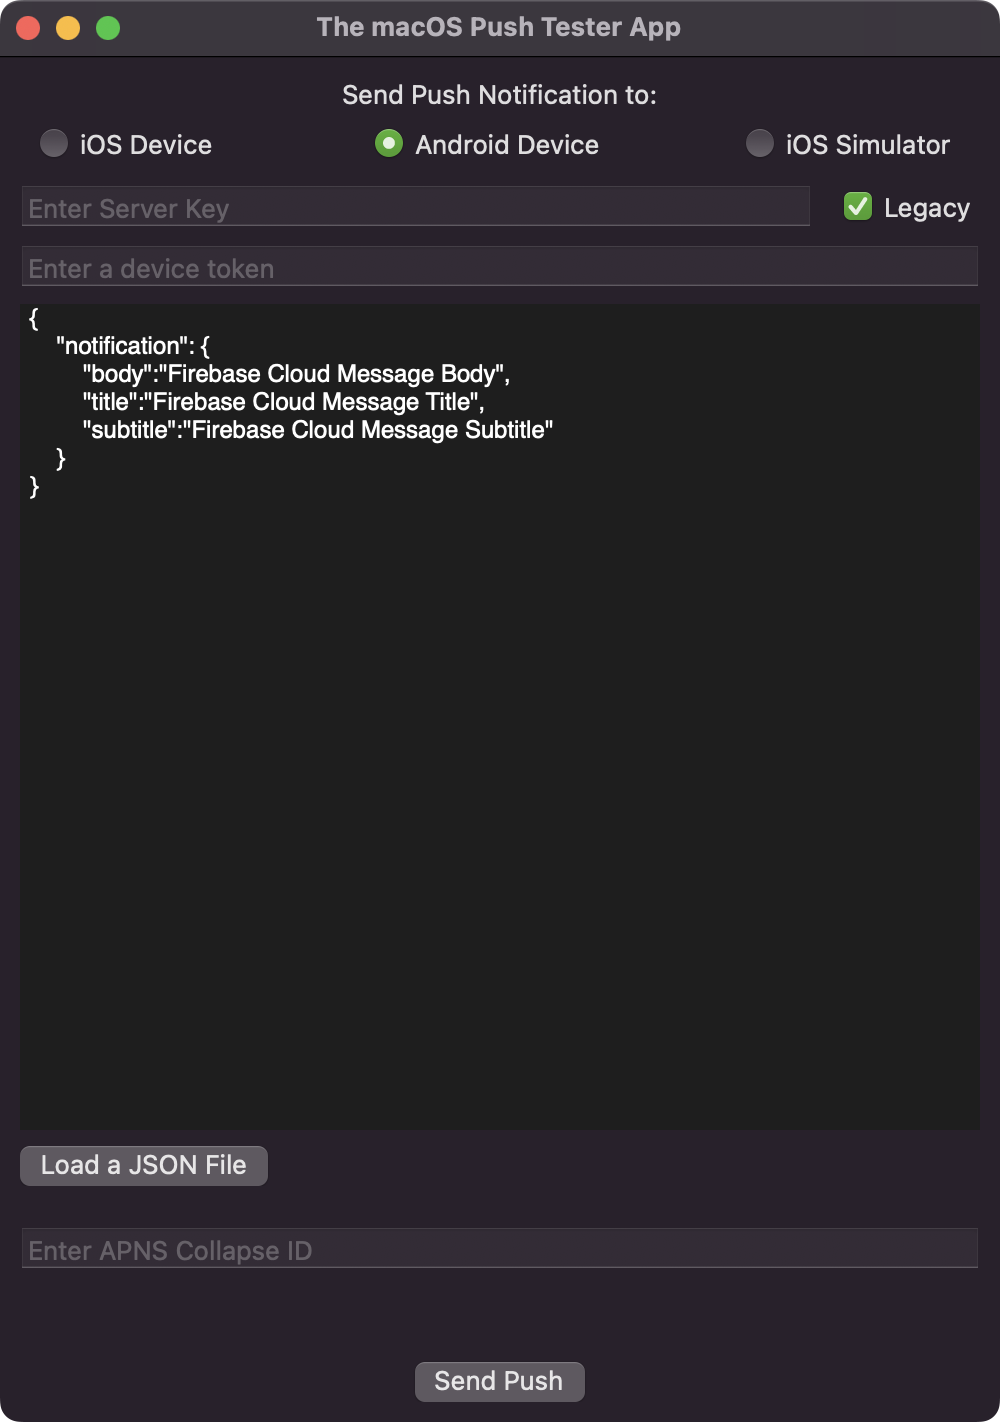
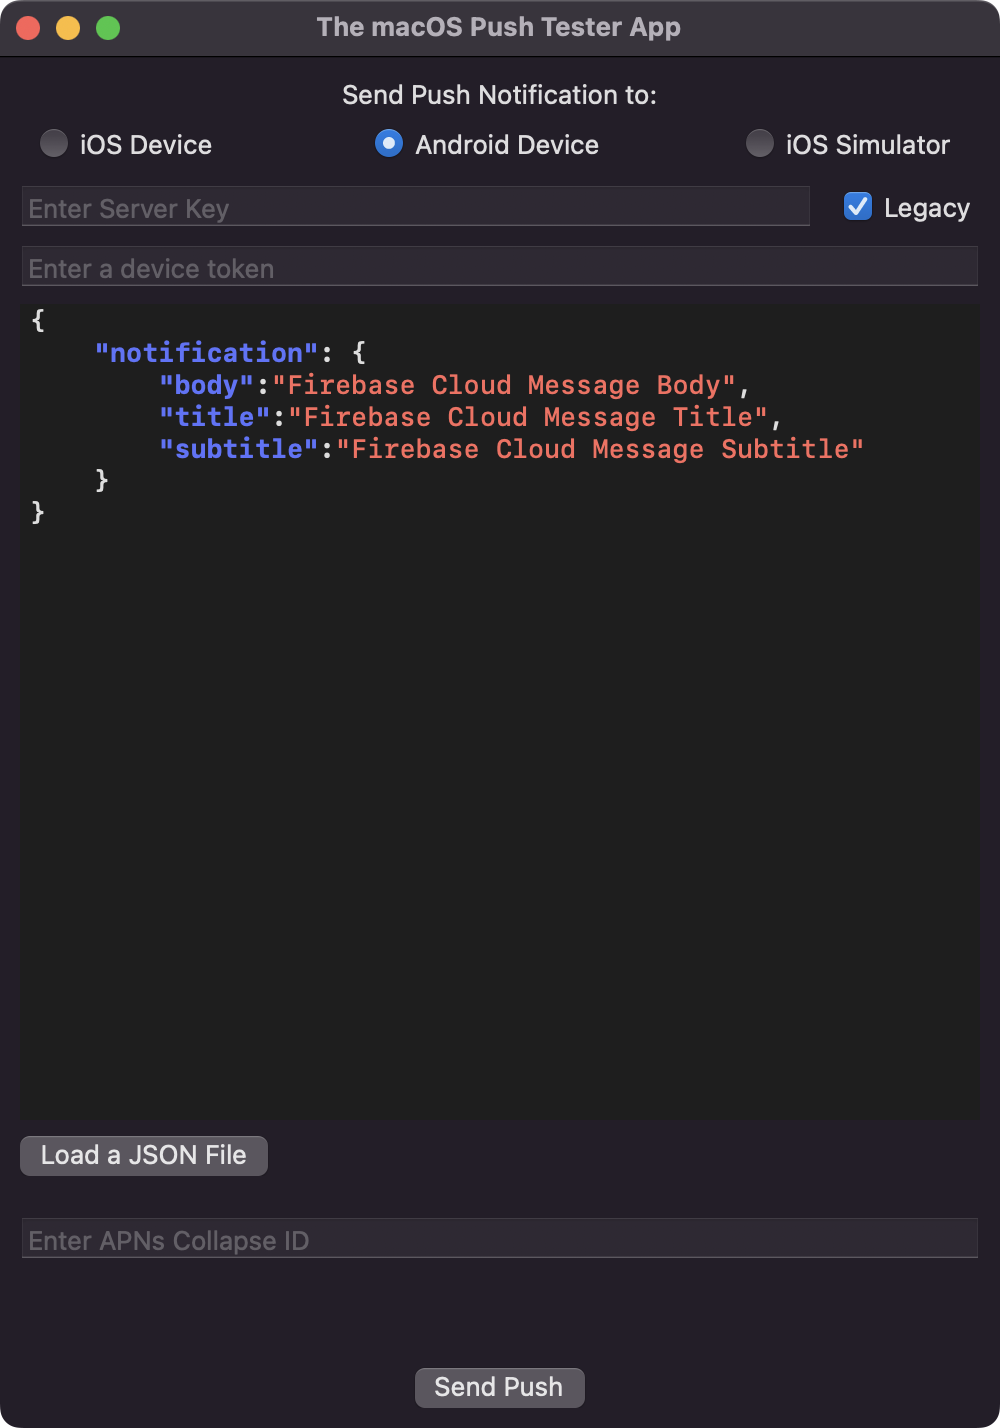
feat: Handle properly apns-push-type by adding a push type textfield (SDKCF-6629)

diff --git a/PusherMainView/PusherMainViewTests/PusherStoreSpec.swift b/PusherMainView/PusherMainViewTests/PusherStoreSpec.swift
@@ -153,7 +153,7 @@ final class PusherStoreSpec: QuickSpec {
                                                                                 priority: 0,
                                                                                 collapseID: nil,
                                                                                 sandbox: true,
-                                                                                liveActivity: false)),
+                                                                                pushType: "alert")),
                                                               completion: { _ in
                                                               }))
 
@@ -175,7 +175,7 @@ final class PusherStoreSpec: QuickSpec {
                                                                                 priority: 0,
                                                                                 collapseID: nil,
                                                                                 sandbox: true,
-                                                                                liveActivity: false)),
+                                                                                pushType: "alert")),
                                                               completion: { _ in
                                                               }))
 
@@ -250,7 +250,7 @@ final class PusherStoreSpec: QuickSpec {
                                                                                 priority: 0,
                                                                                 collapseID: nil,
                                                                                 sandbox: true,
-                                                                                liveActivity: false)),
+                                                                                pushType: "alert")),
                                                               completion: { success in
                                                                   failure = !success
                                                               }))
@@ -270,7 +270,7 @@ final class PusherStoreSpec: QuickSpec {
                                                                                 priority: 0,
                                                                                 collapseID: nil,
                                                                                 sandbox: true,
-                                                                                liveActivity: false)),
+                                                                                pushType: "alert")),
                                                              completion: { aSuccess in
                                                                  success = aSuccess
                                                              }))

diff --git a/PusherMainView/PusherMainView/PusherViewController.swift b/PusherMainView/PusherMainView/PusherViewController.swift
@@ -9,7 +9,7 @@ public final class PusherViewController: NSViewController {
     @IBOutlet private var appOrProjectIDTextField: NSTextField!
     @IBOutlet private var priorityTextField: NSTextField!
     @IBOutlet private var sandBoxCheckBox: NSButton!
-    @IBOutlet private var liveActivityCheckBox: NSButton!
+    @IBOutlet private var pushTypeTextField: NSTextField!
     @IBOutlet private var apnsCertificateRadioButton: NSButton!
     @IBOutlet private var apnsAuthTokenRadioButton: NSButton!
     @IBOutlet private var loadJSONFileButton: NSButton!
@@ -60,6 +60,7 @@ public final class PusherViewController: NSViewController {
         collapseIdTextField.placeholderString = "enter.apns.collapse.id".localized
         appOrProjectIDTextField.placeholderString = "enter.your.app.bundle.id".localized
         priorityTextField.placeholderString = "enter.apns.priority".localized
+        pushTypeTextField.placeholderString = "enter.apns.push.type".localized
         serverKeyTextField.placeholderString = "enter.fcm.server.key".localized
 
         priorityTextField.stringValue = "10"
@@ -163,7 +164,7 @@ public final class PusherViewController: NSViewController {
                 priority: priorityTextField?.integerValue ?? 10,
                 collapseID: collapseIdTextField.stringValue,
                 sandbox: sandBoxCheckBox.state.rawValue == 1,
-                liveActivity: liveActivityCheckBox.state.rawValue == 1))) { _ in })
+                pushType: pushTypeTextField.stringValue))) { _ in })
         }
     }
 
@@ -245,12 +246,12 @@ extension PusherViewController: NSTextViewDelegate {
     @IBOutlet private weak var priorityTextField: NSTextField!
     @IBOutlet private weak var collapseIdTextField: NSTextField!
     @IBOutlet private weak var sandBoxCheckBox: NSButton!
-    @IBOutlet private weak var liveActivityCheckBox: NSButton!
+    @IBOutlet private weak var pushTypeTextField: NSTextField!
     @IBOutlet private weak var serverKeyTextFieldContainter: NSView!
 
     private var iOSControls: [NSView] {
         [deviceTokenTextField, orLabel, selectDeviceButtonContainer, apnsButtonsContainer,
-         priorityTextField, collapseIdTextField, sandBoxCheckBox, liveActivityCheckBox]
+         priorityTextField, collapseIdTextField, sandBoxCheckBox, pushTypeTextField]
     }
     private var androidControls: [NSView] {
         [deviceTokenTextField, serverKeyTextFieldContainter, collapseIdTextField]

diff --git a/APNS/APNSTests/URLRequestSpec.swift b/APNS/APNSTests/URLRequestSpec.swift
@@ -1,0 +1,53 @@
+import Foundation
+import Quick
+import Nimble
+@testable import APNS
+
+final class URLRequestSpec: QuickSpec {
+    override func spec() {
+        describe("URLRequest") {
+            let url: URL! = URL(string: "https://test.com")
+            var urlRequest: URLRequest!
+
+            beforeEach {
+                urlRequest = URLRequest(url: url)
+            }
+
+            context("When APNs push type is empty string value") {
+                it("should not set apns-push-type header field") {
+                    urlRequest.add(pushType: "")
+
+                    let value = urlRequest.value(forHTTPHeaderField: HeaderFieldConstants.apnsPushType)
+                    expect(value).to(beNil())
+                }
+            }
+
+            context("When APNs push type is alert") {
+                it("should set apns-push-type header field to alert") {
+                    urlRequest.add(pushType: "alert")
+
+                    let value = urlRequest.value(forHTTPHeaderField: HeaderFieldConstants.apnsPushType)
+                    expect(value).to(equal("alert"))
+                }
+            }
+
+            context("When APNs push type is background") {
+                it("should set apns-push-type header field to background") {
+                    urlRequest.add(pushType: "background")
+
+                    let value = urlRequest.value(forHTTPHeaderField: HeaderFieldConstants.apnsPushType)
+                    expect(value).to(equal("background"))
+                }
+            }
+
+            context("When APNs push type is liveactivity") {
+                it("should set apns-push-type header field to liveactivity") {
+                    urlRequest.add(pushType: "liveactivity")
+
+                    let value = urlRequest.value(forHTTPHeaderField: HeaderFieldConstants.apnsPushType)
+                    expect(value).to(equal("liveactivity"))
+                }
+            }
+        }
+    }
+}

diff --git a/APNS/APNS/APNSPusher.swift b/APNS/APNS/APNSPusher.swift
@@ -15,7 +15,7 @@ public protocol APNSPushable {
                       priority: Int,
                       collapseID: String?,
                       inSandbox sandbox: Bool,
-                      liveActivity: Bool,
+                      pushType: String,
                       completion: @escaping (Result<String, Error>) -> Void)
     func pushToSimulator(payload: String,
                          appBundleID bundleID: String,
@@ -75,7 +75,7 @@ public final class APNSPusher: NSObject, APNSPushable {
                              priority: Int,
                              collapseID: String?,
                              inSandbox sandbox: Bool,
-                             liveActivity: Bool,
+                             pushType: String,
                              completion: @escaping (Result<String, Error>) -> Void) {
         guard let url = URL(string: "https://api\(sandbox ? ".development" : "").push.apple.com/3/device/\(token)") else {
             completion(.failure(NSError(domain: "com.pusher.APNSPusher",
@@ -85,7 +85,7 @@ public final class APNSPusher: NSObject, APNSPushable {
         }
 
         var payload = payload
-        if liveActivity {
+        if pushType == APNsPushType.liveActivity {
             payload["timestamp"] = Date().timeIntervalSince1970
         }
 
@@ -103,8 +103,10 @@ public final class APNSPusher: NSObject, APNSPushable {
         request.httpBody = httpBody
 
         var correctTopic = topic
-        if liveActivity {
-            request.addValue("liveactivity", forHTTPHeaderField: "apns-push-type")
+
+        request.add(pushType: pushType)
+
+        if pushType == APNsPushType.liveActivity {
             let suffix = ".push-type.liveactivity"
             if !(correctTopic?.hasSuffix(suffix) ?? true) {
                 correctTopic = correctTopic?.appending(suffix)

diff --git a/PusherMainView/PusherMainView/PusherStore.swift b/PusherMainView/PusherMainView/PusherStore.swift
@@ -120,7 +120,7 @@ final class PusherStore {
 
                 // Update the timestamp for Live Activity notification payload
                 // Note: if the timestamp is not the current time, then the push won't be received on the device
-                if data.liveActivity {
+                if data.pushType == APNsPushType.liveActivity {
                     payload.update(with: Timestamp.current)
                 }
 
@@ -130,7 +130,7 @@ final class PusherStore {
                                         priority: data.priority,
                                         collapseID: data.collapseID,
                                         inSandbox: data.sandbox,
-                                        liveActivity: data.liveActivity,
+                                        pushType: data.pushType,
                                         completion: { [weak self] result in
                                             self?.handlePushResult(result, calling: completion)
                                         })

diff --git a/APNS/APNS/URLRequest+Extensions.swift b/APNS/APNS/URLRequest+Extensions.swift
@@ -1,0 +1,19 @@
+import Foundation
+
+enum HeaderFieldConstants {
+    static let apnsPushType = "apns-push-type"
+}
+
+public enum APNsPushType {
+    public static let liveActivity = "liveactivity"
+}
+
+extension URLRequest {
+    /// Add push type for `apns-push-type` key in HTTP header only if it is not empty.
+    mutating func add(pushType: String) {
+        guard !pushType.isEmpty else {
+            return
+        }
+        addValue(pushType, forHTTPHeaderField: HeaderFieldConstants.apnsPushType)
+    }
+}

diff --git a/PusherMainView/PusherMainViewTests/Mocks.swift b/PusherMainView/PusherMainViewTests/Mocks.swift
@@ -20,7 +20,7 @@ class APNSPusherMock: APNSPushable {
                       priority: Int,
                       collapseID: String?,
                       inSandbox sandbox: Bool,
-                      liveActivity: Bool,
+                      pushType: String,
                       completion: @escaping (Result<String, Error>) -> Void) {
         completion(result)
     }

diff --git a/PusherMainView/PusherMainView/PushData.swift b/PusherMainView/PusherMainView/PushData.swift
@@ -1,4 +1,5 @@
 import Foundation
+import APNS
 
 enum PushData: Equatable {
     case apns(_ data: APNSPushData)
@@ -22,7 +23,7 @@ struct APNSPushData: Equatable {
     let priority: Int
     let collapseID: String?
     let sandbox: Bool
-    let liveActivity: Bool
+    let pushType: String
 }
 
 struct FCMPushData: Equatable {

diff --git a/CHANGELOG.md b/CHANGELOG.md
@@ -8,6 +8,7 @@ and this project adheres to [Semantic Versioning](http://semver.org/).
 
 ### Features
 - Add JSON syntax coloring and validation (SDKCF-6431)
+- Handle properly apns-push-type by adding a push type textfield (SDKCF-6629)
 
 ### Fixes
 - Fixed build issues on Xcode 14.3
